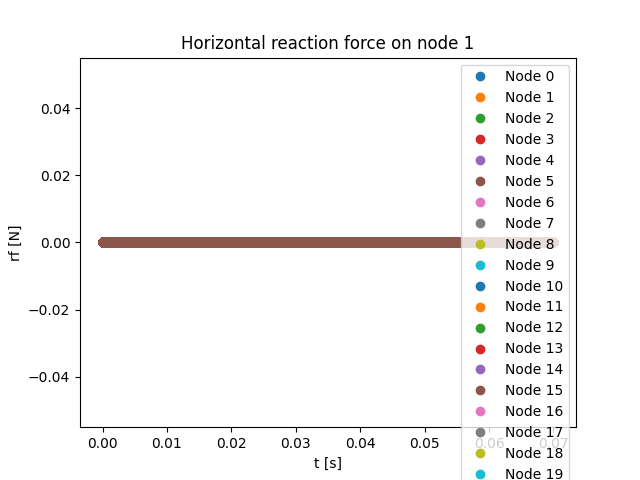
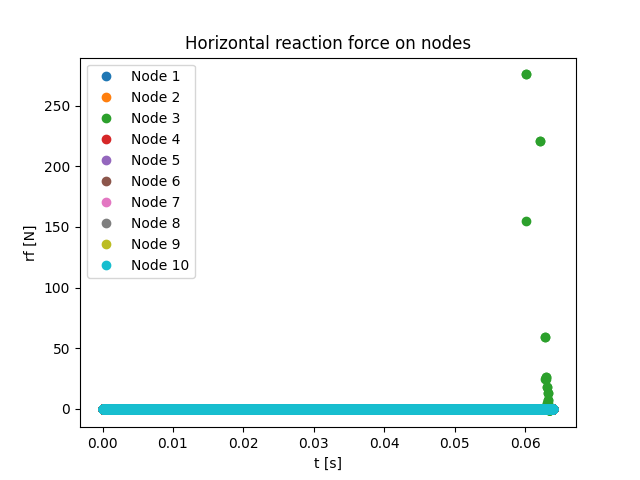
Debugging sz calculations and BC applications
BC application capable of vertically hanging end effector

diff --git a/ProjectCodes/FinalImplementation/BC_Application/BC_Bounce.py b/ProjectCodes/FinalImplementation/BC_Application/BC_Bounce.py
@@ -16,6 +16,7 @@ def simloop(q_guess, q_old, u_old, dt, mass, EI, EA, deltaL, force, tol, mat, nv
     all_pos = np.zeros(Nsteps)
     all_rfx = np.zeros((Nsteps,(int(len(q_old)/3))))
     all_rfy = np.zeros((Nsteps,(int(len(q_old)/3))))
+    all_rfval = np.zeros((Nsteps,(int(len(q_old)/3))))
     all_zvec = np.zeros(Nsteps)
     all_u = np.zeros(Nsteps)
     coll_u = np.zeros(Nsteps)
@@ -33,7 +34,7 @@ def simloop(q_guess, q_old, u_old, dt, mass, EI, EA, deltaL, force, tol, mat, nv
     close_off = 5e-6              # 5e-6
 
     # Coordinates for reference reactangle in contact
-    xrec, yrec = [0.02, 0.02, 0.1], [-0.04, 0, 0]
+    xrec, yrec = [-0.04, 0, 0], [-0.02, -0.02, -0.1]
     
     r_force = np.zeros(3*nv)
     s_mat = np.eye(3*nv)
@@ -41,8 +42,8 @@ def simloop(q_guess, q_old, u_old, dt, mass, EI, EA, deltaL, force, tol, mat, nv
 
     for timeStep in range(1, Nsteps): # Loop over time steps
       print("--------------------------------------------------------------------------------------------- t = %f\n" % ctime)
-      print("--------------------------------------------------------------------------------- y = %f\n" % (q0[1]) )
-      print("-------------------------------------------------------------------- u = %f\n" % (u[1]))
+      print("--------------------------------------------------------------------------------- x = %f\n" % (q0[0]) )
+      print("-------------------------------------------------------------------- u = %f\n" % (u[0]))
       #print('t = %f\n' % ctime)
       flag_c = 0
 
@@ -54,14 +55,15 @@ def simloop(q_guess, q_old, u_old, dt, mass, EI, EA, deltaL, force, tol, mat, nv
       con_ind, free_ind, q_con, mat, flag_c, close_flag = MMMadj.test_col(q, r_force, close_d, 0)
       print("Constraint nodes: " + str(con_ind))
       print("Free nodes: " + str(free_ind))
+      #print(force)
 
       if close_flag == 1:
         itt = 0        
         #np.append(coll_u, np.zeros(int(dt_def/dt_c)))
         while close_flag == 1:
           print("close to contact")
-          print("-------------------------------------------------------------------------- y = %f\n" % (q0[1]))
-          print("------------------------------------------------------ u = %f\n" % (u[1]))
+          print("-------------------------------------------------------------------------- x = %f\n" % (q0[0]))
+          print("------------------------------------------------------ u = %f\n" % (u[0]))
           s_mat, z_vec = MMMadj.MMM_Szcalc(mat, con_ind, free_ind, q_con, q0, u, dt_c, mass, force)
 
           r_force, q, flag = MMMadj.MMM_cal(q0, q0, u, dt_c, mass, EI, EA, deltaL, force, tol, s_mat, z_vec, mat, free_ix)
@@ -90,6 +92,19 @@ def simloop(q_guess, q_old, u_old, dt, mass, EI, EA, deltaL, force, tol, mat, nv
         
       else:
         s_mat, z_vec = MMMadj.MMM_Szcalc(mat, con_ind, free_ind, q_con, q0, u, dt_def, mass, force)
+        if flag_c == 1:
+          #print(mat)
+          #s_mat, z_vec = MMMadj.MMM_Szcalc(mat, con_ind, free_ind, q_con, q0, u, dt_c, mass, force)
+          # print("S Matrix: " + str(s_mat))
+          print("Z vector: " + str(z_vec))
+          r_force, q, flag = MMMadj.MMM_cal(q0, q0, u, dt_def, mass, EI, EA, deltaL, force, tol, s_mat, z_vec, mat, free_ix)
+              
+          # End simulation if excessive low amplitude oscillations
+          if timeStep - t_lastc < 300:
+            end_flag = 1
+            t_lastc = timeStep
+            break
+        
         u = (q - q0) / dt_def                     # update velocity
         print("Velocity: " + str(u))
         q0 = q.copy()                         # update old position
@@ -98,11 +113,23 @@ def simloop(q_guess, q_old, u_old, dt, mass, EI, EA, deltaL, force, tol, mat, nv
       for ii in range(int(len(q_old)/3)):
         all_rfx[timeStep][ii] = r_force[3*ii]
         all_rfy[timeStep][ii] = r_force[3*ii + 1]
+        all_rfval[timeStep][ii] = np.sqrt((np.square(r_force[3*ii + 1]))+(np.square(r_force[3*ii])))
+
+      # Data for visualizing reaction force concentrations
+      # Normalizing reaction forces
+      if np.max(np.abs(all_rfval[timeStep])) == 0:
+        # If zero contact reaction forces present
+        norm_rf = (-5)*np.ones(int(len(q_old)/3))
+      else:
+        # If contact reaction forces present
+        norm_rf = ((np.abs(all_rfval[timeStep]) / np.max(np.abs(all_rfval[timeStep]))))
+      # print(all_rfval[timeStep, :])
+      #print(norm_rf)
       
       # Storing displacement, velocity, and z vector values for plotting
-      all_zvec[timeStep] = z_vec[1]
-      all_pos[timeStep] = q0[1]
-      all_u[timeStep] = u[1]                # Save the positions
+      all_zvec[timeStep] = z_vec[6]
+      all_pos[timeStep] = q0[6]
+      all_u[timeStep] = u[6]                # Save the positions
 
       #Break if excessive low oscillations
       # if end_flag == 1:
@@ -117,22 +144,28 @@ def simloop(q_guess, q_old, u_old, dt, mass, EI, EA, deltaL, force, tol, mat, nv
       #   break
 
       # Plot the positions
-      if timeStep%500 == 0:
+      if timeStep%50 == 0 and ctime >= 0.055:
         x1 = q[0::3]  # Selects every second element starting from index 0
         #print(x1)
         x2 = q[1::3]  # Selects every second element starting from index 1
         #print(x2)
         plt.clf()  # Clear the current figure
-        plt.plot(x1, x2, 'ko-')  # 'ko-' indicates black color with circle markers and solid lines
+        plt.plot(x1, x2, 'k-')  # 'ko-' indicates black color with circle markers and solid lines
+        for jj in range(int(len(q_old)/3)):
+           if norm_rf[jj] == -5:
+              plt.plot(x1[jj], x2[jj], 'o-', color=(0, 0, 1), markeredgewidth=1.5, markeredgecolor='black')
+           else:
+              plt.plot(x1[jj], x2[jj], 'o-', color=(np.abs((norm_rf[jj])), (1 - np.abs(norm_rf[jj])), 0), markeredgewidth=1.5, markeredgecolor='black')
         plt.plot(xrec, yrec)
         plt.title('time: ' + str(ctime))  # Format the title with the current time
-        plt.xlim([-0.1, 1.1])
+        plt.xlim([-0.2, 0.2])
+        plt.ylim([-1.1, 0.1])
         plt.axis('equal')  # Set equal scaling
         plt.xlabel('x [m]')
         plt.ylabel('y [m]')
-        plot1_name = 'GripperGeom' + str(round(ctime, 3)) + '.png' 
+        plot1_name = 'GripperGeom' + str(round(ctime, 5)) + '.png' 
         plt.savefig('FinalImplementation/BC_Application/BCApplicationPlots/BC_GeomPlots/' + str(plot1_name))
-        # plt.show()
+        plt.show()
 
       ctime += dt # Update the current time
     
@@ -140,10 +173,10 @@ def simloop(q_guess, q_old, u_old, dt, mass, EI, EA, deltaL, force, tol, mat, nv
     # print(np.size(all_rfx[0,:]))
     # print(np.size(all_rfy[:,1]))
 
-    return all_pos, all_u, all_rfx, all_rfy, all_zvec, coll_u, u
+    return all_pos, all_u, all_rfx, all_rfy, all_rfval, all_zvec, coll_u, u
 
 
-def plotting(all_pos, all_u, all_rfx, all_rfy, all_zvec, coll_u, totalTime, Nsteps):
+def plotting(all_pos, all_u, all_rfx, all_rfy, all_rfval, all_zvec, coll_u, totalTime, Nsteps):
     # Plot
     t = np.linspace(0, totalTime, Nsteps)
     # print(len(all_pos))
@@ -171,11 +204,11 @@ def plotting(all_pos, all_u, all_rfx, all_rfy, all_zvec, coll_u, totalTime, Nste
     plt.figure(4)
     plt.clf()
     for jj in range(int(np.size(all_rfx,1))):
-      plt.plot(t, all_rfx[:,jj], 'o', label='Node ' + str(jj)) # x,y plot for the first node
+      plt.plot(t, all_rfx[:,jj], 'o', label='Node ' + str(jj + 1)) # x,y plot for the first node
     #plt.xlim([1.27, 1.34])
     plt.xlabel('t [s]')
     plt.ylabel('rf [N]')
-    plt.title("Horizontal reaction force on node 1")
+    plt.title("Horizontal reaction force on nodes")
     plt.legend()
     plot3_name = 'HorizontalReactionForceNodes.png'
     plt.savefig('FinalImplementation/BC_Application/BCApplicationPlots/' + str(plot3_name))
@@ -183,11 +216,23 @@ def plotting(all_pos, all_u, all_rfx, all_rfy, all_zvec, coll_u, totalTime, Nste
     plt.figure(5)
     plt.clf()
     for jj in range(int(np.size(all_rfx,1))):
-      plt.plot(t, all_rfy[:,jj], 'o', label='Node ' +  str(jj))
+      plt.plot(t, all_rfy[:,jj], 'o', label='Node ' +  str(jj + 1))
     #plt.xlim([1.27, 1.34])
     plt.xlabel('t [s]')
     plt.ylabel('rf [N]')
-    plt.title("Vertical reaction force on node 1")
+    plt.title("Vertical reaction force on nodes")
+    plt.legend()
+    plot4_name = 'VerticalReactionForceNodes.png'
+    plt.savefig('FinalImplementation/BC_Application/BCApplicationPlots/' + str(plot4_name))
+
+    plt.figure(6)
+    plt.clf()
+    for jj in range(int(np.size(all_rfx,1))):
+      plt.plot(t, all_rfval[:,jj], 'o', label='Node ' +  str(jj + 1))
+    #plt.xlim([1.27, 1.34])
+    plt.xlabel('t [s]')
+    plt.ylabel('rf [N]')
+    plt.title("Magnitude of reaction force on nodes")
     plt.legend()
     plot4_name = 'VerticalReactionForceNodes.png'
     plt.savefig('FinalImplementation/BC_Application/BCApplicationPlots/' + str(plot4_name))
@@ -207,10 +252,6 @@ def plotting(all_pos, all_u, all_rfx, all_rfy, all_zvec, coll_u, totalTime, Nste
 
 if __name__ == '__main__':
 
-    # Mass
-    RodLength = 0.10                          # Rod Length
-    r0 = 1e-3                                 # Cross-sectional radius of rod
-
     #----------------------------------------------------------
     # Inputs for using one node
     # nv = 1
@@ -222,27 +263,40 @@ if __name__ == '__main__':
 
     #-----------------------------------------------------------
     # Inputs for using more than one node
-    nv = 26
+
+    # Mass
+    RodLength = 0.10                          # Rod Length
+    r0 = 1e-3                                 # Cross-sectional radius of rod
+
+    nv = 10
     ne = nv - 1
     deltaL = RodLength / (nv - 1)            # Discrete length
     ndof = 3 * nv
 
     all_DOFs = np.arange(ndof)
-    fixed_index = np.array([0, 1, 2])
+    fix_nodesNum = np.array([1])
+    fix_nodes = max(fix_nodesNum)
+    fixed_index = MMMadj.get_matind(fix_nodesNum)
+    #fixed_index = np.array([0, 1, 2, 3, 4, 5])
     # Get the difference of two sets using np.setdiff1d
     free_ix = np.setdiff1d(all_DOFs, fixed_index)
     free_ix = fixed_index
 
-    nodes = np.zeros((nv, 2))
-    for c in range(nv):
-      nodes[c, 0] = c * deltaL
-      nodes[c, 1] = 0.01
+    # nodes = np.zeros((nv, 2))
+    # for c in range(nv):
+    #   nodes[c, 1] = (-1) * c * deltaL
+    #   nodes[c, 0] = 0.01
+    # q0 = np.zeros(ndof)
+    # for k in range(nv):
+    #   q0[3 * k] = nodes[k, 0]
+    #   q0[3 * k + 1] = nodes[k, 1]
+    #   q0[3*k + 2] = 0
     q0 = np.zeros(ndof)
-    for k in range(nv):
-      q0[3 * k] = nodes[k, 0]
-      q0[3 * k + 1] = nodes[k, 1]
-      q0[3*k + 2] = 0
-    print(q0)
+    for s in range(nv):
+      q0[3 * s] = 0.01
+      q0[3 * s + 1] = (-1) * s * deltaL
+      q0[3*s + 2] = 0
+    #print(q0)
     q = q0.copy()
 
     #------------------------------------------------------------
@@ -252,7 +306,7 @@ if __name__ == '__main__':
     maximum_iter = 100
     #totalTime = 0.453
     #totalTime = 0.5
-    totalTime = 0.07
+    totalTime = 0.064
     Nsteps = round(totalTime / dt)
     tol_dq = 1e-6 # Small length value
 
@@ -271,9 +325,11 @@ if __name__ == '__main__':
     # Weight
     W = np.zeros(ndof)
     g = np.array([0, -9.8, 0])  # m/s^2 - gravity
-    for k in range(nv):
-      W[3*k]   = mass * g[0] # Weight for x_k
+    grip_acc = np.array([-9.8, 0, 0])
+    for k in range(fix_nodes, nv):
       W[3*k+1] = mass * g[1] # Weight for y_k
+    for p in range(fix_nodes):
+      W[3*p]   = mass * grip_acc[0] # Weight for x_k
     
     # Velocity
     u = np.zeros(ndof)
@@ -282,5 +338,5 @@ if __name__ == '__main__':
     mat = np.zeros((nv,2,3))
     q_con = np.zeros(ndof)
 
-    all_pos, all_u, all_rfx, all_rfy, all_zvec, coll_u, u = simloop(q0, q0, u, dt, mass, EI, EA, deltaL, W, tol_dq, mat, nv, free_ix)
-    plotting(all_pos, all_u, all_rfx, all_rfy, all_zvec, coll_u, totalTime, Nsteps)
+    all_pos, all_u, all_rfx, all_rfy, all_rfval, all_zvec, coll_u, u = simloop(q0, q0, u, dt, mass, EI, EA, deltaL, W, tol_dq, mat, nv, free_ix)
+    plotting(all_pos, all_u, all_rfx, all_rfy, all_rfval, all_zvec, coll_u, totalTime, Nsteps)

diff --git a/ProjectCodes/FinalImplementation/BC_Application/MMM_BC.py b/ProjectCodes/FinalImplementation/BC_Application/MMM_BC.py
@@ -53,17 +53,19 @@ def RF_eq(q_new, q_old, u_old, dt, mass, force, mat):
     r_force = np.zeros(int(len(q_old)))
 
     for ii in range(int(len(q_old)/3)):
+
         r_fc = (mass / dt) * ( ((q_new[3*ii:3*ii+3] - q_old[3*ii:3*ii+3]) / dt) - u_old[3*ii:3*ii+3]) - (force[3*ii:3*ii+3])
         
         # Project the vector onto the contrained direction
         r_force[3*ii:3*ii+3] = (np.dot(mat[ii][0], r_fc)) * np.array(mat[ii][0])
+    
     return r_force
 
 
 def MMM_zcalc(q_con, q_old, u_old, dt, mass, force, S_mat):
     # Iterates over nodes and adjusts according to collision presence
-
-    z_vec = (1 / dt) * ( ((q_con - q_old) / dt) - u_old ) - ((1/mass)* S_mat @ force)
+    e_factor = 1
+    z_vec = e_factor*((1 / dt) * ( ((q_con - q_old) / dt) - u_old ) - ((1/mass)* S_mat @ force))
 
     return z_vec
 
@@ -81,12 +83,18 @@ def MMM_Szcalc(mat, con_ind, free_ind, q_con, q_old, u_old, dt, mass, force):
     # Calculates the new S and z terms to correct in the objective function
     # If any nodes need to be constrained
     if len(con_ind) > 1:
-        for ii in range(int(len(con_ind)/3)):
-            S_n = np.eye(3) - np.outer(mat[ii][0], mat[ii][0]) - np.outer(mat[ii][1], mat[ii][1])
+        # Specify the node corresponding to the indices
+        Nnum_con = getNnum(con_ind)
+        for ii in range(int(len(Nnum_con))):
+            cur_node = Nnum_con[ii] - 1
+            S_n = np.eye(3) - np.outer(mat[cur_node][0], mat[cur_node][0]) - np.outer(mat[cur_node][1], mat[cur_node][1])
+            # print(cur_node)
+            # print(mat[cur_node][0])
+            # print(S_n)
             z_n = MMM_zcalc(q_con[(con_ind[3*ii]):(con_ind[3*ii] + 3)], q_old[(con_ind[3*ii]):(con_ind[3*ii] + 3)], \
                             u_old[(con_ind[3*ii]):(con_ind[3*ii] + 3)], dt, mass, force[(con_ind[3*ii]):(con_ind[3*ii] + 3)], S_n)
             #print(z_n)
-            z_n = ( np.dot(mat[ii][0], z_n) ) * np.array(mat[ii][0])
+            z_n = ( np.dot(mat[cur_node][0], z_n) ) * np.array(mat[cur_node][0])
 
             s_mat[(con_ind[3*ii]):(con_ind[3*ii] + 3), (con_ind[3*ii]):(con_ind[3*ii] + 3)] = S_n
             z_vec[(con_ind[3*ii]):(con_ind[3*ii] + 3)] = z_n
@@ -115,6 +123,7 @@ def test_col(q_test, r_force, close_d, close_off):
     mat = np.zeros((int(len(q_test)/3),2,3))
     flag = 0
     close_flag = 0
+    p = np.array([1,0,0])
 
     for ii in range(int(len(q_test)/3)):
         # If the reaction force vector is zero
@@ -122,23 +131,23 @@ def test_col(q_test, r_force, close_d, close_off):
             proj_vec = np.zeros(3)
         else:
             unit_r = (1/np.linalg.norm(r_force[(3*ii):(3*ii + 3)])) * r_force[(3*ii):(3*ii + 3)]
-            proj_vec = ( np.dot(np.array([0,1,0]), unit_r) ) * np.array([0,1,0])
+            proj_vec = ( np.dot(p, unit_r) ) * p
 
         #print(proj_vec[1])
         #print(q_test[3*ii])
-        if q_test[3*ii + 1] < 0 and q_test[3*ii] > 0.012:
+        if q_test[3*ii] < 0 and q_test[3*ii + 1] < -0.02:
             
-            q_con[3*ii + 1] = 0
-            mat[ii] = np.array([[0,1,0],[0,0,0]])
+            q_con[3*ii] = 0
+            mat[ii] = np.array([p,[0,0,0]])
             #print(mat)
             con_ind[ii] = ii + 1
             #print("Below surface")
             flag = 1
-        elif q_test[3*ii + 1] >= 0 and proj_vec[1] <= 0:
+        elif q_test[3*ii] >= 0 and proj_vec[0] <= 0 and q_test[3*ii + 1] < -0.02:
             free_ind[ii] = ii + 1
             mat[ii] = np.array([[0,0,0],[0,0,0]])
             #print("Negative reaction")
-            if q_test[3*ii + 1] < (close_d + close_off):
+            if q_test[3*ii] < (close_d + close_off):
                 free_ind[ii] = ii + 1
                 mat[ii] = np.array([[0,0,0],[0,0,0]])
                 close_flag = 1

diff --git a/ProjectCodes/FinalImplementation/Surface_Application/MMM_functions.py b/ProjectCodes/FinalImplementation/Surface_Application/MMM_functions.py
@@ -76,12 +76,18 @@ def MMM_Szcalc(mat, con_ind, free_ind, q_con, q_old, u_old, dt, mass, force):
     # Calculates the new S and z terms to correct in the objective function
     # If any nodes need to be constrained
     if len(con_ind) > 1:
-        for ii in range(int(len(con_ind)/3)):
-            S_n = np.eye(3) - np.outer(mat[ii][0], mat[ii][0]) - np.outer(mat[ii][1], mat[ii][1])
+        # Specify the node corresponding to the indices
+        Nnum_con = getNnum(con_ind)
+        for ii in range(int(len(Nnum_con))):
+            cur_node = Nnum_con[ii] - 1
+            S_n = np.eye(3) - np.outer(mat[cur_node][0], mat[cur_node][0]) - np.outer(mat[cur_node][1], mat[cur_node][1])
+            # print(cur_node)
+            # print(mat[cur_node][0])
+            # print(S_n)
             z_n = MMM_zcalc(q_con[(con_ind[3*ii]):(con_ind[3*ii] + 3)], q_old[(con_ind[3*ii]):(con_ind[3*ii] + 3)], \
                             u_old[(con_ind[3*ii]):(con_ind[3*ii] + 3)], dt, mass, force[(con_ind[3*ii]):(con_ind[3*ii] + 3)], S_n)
             #print(z_n)
-            z_n = ( np.dot(mat[ii][0], z_n) ) * np.array(mat[ii][0])
+            z_n = ( np.dot(mat[cur_node][0], z_n) ) * np.array(mat[cur_node][0])
 
             s_mat[(con_ind[3*ii]):(con_ind[3*ii] + 3), (con_ind[3*ii]):(con_ind[3*ii] + 3)] = S_n
             z_vec[(con_ind[3*ii]):(con_ind[3*ii] + 3)] = z_n
